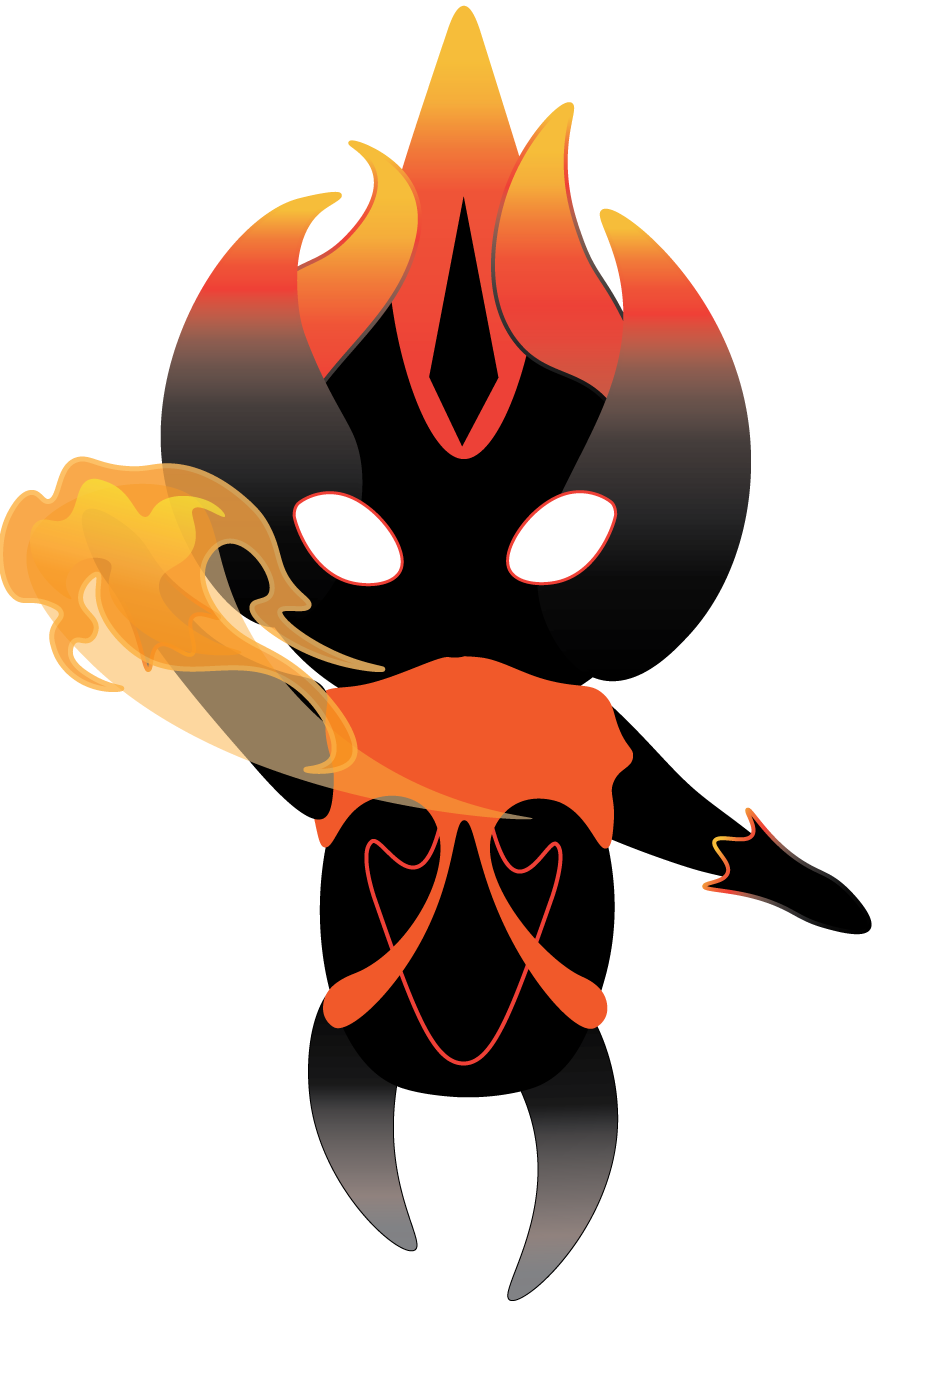
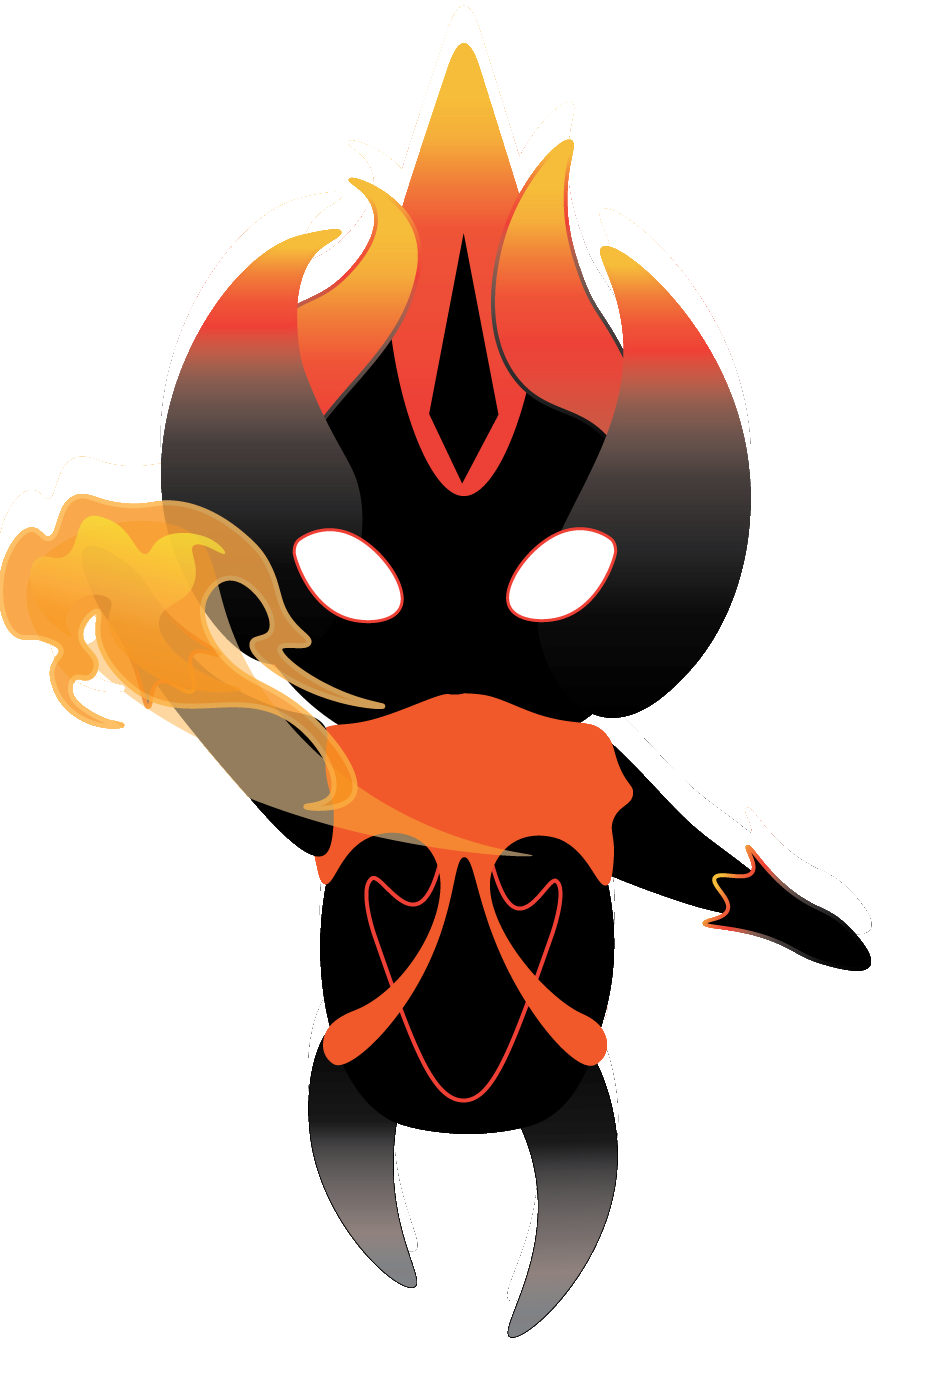
animations changes and finished dash

Changed region(s): [[0.0, 0.0, 0.9384, 0.9521]]

diff --git a/character_objects.js b/character_objects.js
@@ -34,10 +34,10 @@ function main_character(x, y) {
 	
 	this.death = new Array; this.death.push(assets["mc_death_1"]); this.death.push(assets["mc_death_2"]); this.death.push(assets["mc_death_3"]); this.death.push(assets["mc_death_4"]); this.death.push(assets["mc_death_5"]); this.death.push(assets["mc_death_6"]); this.death.push(assets["mc_death_7"]); this.death.push(assets["mc_death_8"]);
 
-	this.right_dash = new Array; this.right_dash.push(assets["mc_dash_right"]); this.right_dash.push(assets["mc_right_1"]);
-	this.left_dash = new Array; this.left_dash.push(assets["mc_dash_left"]); this.left_dash.push(assets["mc_left_1"]);
-	this.up_dash = new Array; this.up_dash.push(assets["mc_dash_up"]); this.up_dash.push(assets["mc_up_1"]);
-	this.down_dash = new Array; this.down_dash.push(assets["mc_dash_down"]); this.down_dash.push(assets["mc_down_1"]);
+	this.right_dash = new Array; this.right_dash.push(assets["mc_dash_right"], assets["mc_dash_right"]); this.right_dash.push(assets["mc_right_1"]);
+	this.left_dash = new Array; this.left_dash.push(assets["mc_dash_left"], assets["mc_dash_left"]); this.left_dash.push(assets["mc_left_1"]);
+	this.up_dash = new Array; this.up_dash.push(assets["mc_dash_up"], assets["mc_dash_up"]); this.up_dash.push(assets["mc_up_1"]);
+	this.down_dash = new Array; this.down_dash.push(assets["mc_dash_down"], assets["mc_dash_down"]); this.down_dash.push(assets["mc_down_1"]);
 	
 	this.image_index = 0;
 	this.image_speed_max = 7;  
@@ -46,6 +46,7 @@ function main_character(x, y) {
 	this.active_animation = this.up_walk;
 	this.animated = false;               //whether the draw animated sprite script should be called
 	this.animating = false;              //whether a high priority animation is active (not walking)
+	this.walking = true;
 	
 	this.fp = 30;
 	this.nextFp = 10;
@@ -134,26 +135,29 @@ function main_character(x, y) {
 	
 	this.update = function(){
 		
-		//animation handlers
-		if(this.look_direc == 'west' && this.animating == false){
-			this.active_animation = this.left_walk;
-		}
-		if(this.look_direc == 'south' && this.animating == false){
-			this.active_animation = this.down_walk;
-		}
-		if(this.look_direc == 'north' && this.animating == false){
-			this.active_animation = this.up_walk;
-		}
-		if(this.look_direc == 'east' && this.animating == false){
-			this.active_animation = this.right_walk;
-		}
-		
-		if((this.canvasXSpeed == 0 && this.canvasYSpeed == 0) && this.animating == false){
-			this.animated = false;
-			this.image_index = 0;
-		}
-		else{
-			this.animated = true;
+		//walking animation handlers
+		if(this.walking == true){
+			if(this.look_direc == 'west'){
+				this.active_animation = this.left_walk;
+			}
+			if(this.look_direc == 'south'){
+				this.active_animation = this.down_walk;
+			}
+			if(this.look_direc == 'north'){
+				this.active_animation = this.up_walk;
+			}
+			if(this.look_direc == 'east'){
+				this.active_animation = this.right_walk;
+			}
+			
+			//if not moving, stop animating
+			if(this.canvasXSpeed == 0 && this.canvasYSpeed == 0){
+				this.animating = false;
+				this.image_index = 0;
+			}
+			else{
+				this.animating = true;
+			}
 		}
 		
 		if(this.recently_checked == true){
@@ -407,7 +411,7 @@ function main_character(x, y) {
 	
     this.draw = function() {
     	//drawing the player sprite
-		if(this.animated == true){
+		if(this.animating == true){
 			draw_animated_sprite(this.active_animation, this, this.canvasX, this.canvasY, this.sprite.width, this.sprite.height);
 		}
 		else{
@@ -507,7 +511,7 @@ function main_character(x, y) {
 
 			var opt1 = this.look_direc;
 			var direction = 180;
-			this.animated = true;
+			this.walking = false;
 			this.animating = true;
 		    if (opt1 == 'west') {
 			    direction = 90;
@@ -572,12 +576,13 @@ function main_character(x, y) {
 			
 			//animation
 			//show a still image that is higher priority to walking
-			this.animated = false;
-			this.animating = true;
+			this.walking = false;
+			//this.animating = true;
 			if(this.look_direc == "south"){ this.active_animation = this.down_dash; }
 			if(this.look_direc == "north"){ this.active_animation = this.up_dash; }
 			if(this.look_direc == "west"){ this.active_animation = this.left_dash; }
 			if(this.look_direc == "east"){ this.active_animation = this.right_dash; }
+			console.log("active animation made dash")
 		}
 	}
 	
@@ -620,7 +625,7 @@ function main_character(x, y) {
 	}
 	
 	this.die = function(){
-		this.animated = true;
+		this.walking = false
 		this.animating = true;
 		this.active_animation = this.death;
 		this.canvasXSpeed = 0;
@@ -633,14 +638,16 @@ function main_character(x, y) {
 		//called when the current animation ends
 		if(target == "melee"){
 			this.animating = false;
+			this.walking = true;
 		}
 		if(target == "death"){
 			this.animating = false;
+			this.walking = true;
 			reset_game();
 		}
 		if(target == "dash"){
-			//this.animating = false;
-			//this.animated = false;
+			this.animating = false;
+			this.walking = true;
 		}
 	}
 	

diff --git a/animations.js b/animations.js
@@ -29,6 +29,7 @@ function draw_animated_sprite(spr_arr, owner, cX, cY, spr_w, spr_h){
 			}
 			if(spr_arr == MC.right_dash || spr_arr == MC.left_dash || spr_arr == MC.up_dash || spr_arr == MC.down_dash){
 				owner.end_animation("dash");
+				console.log("dash animation ended");
 			}
 			
 			owner.image_index = 0;
